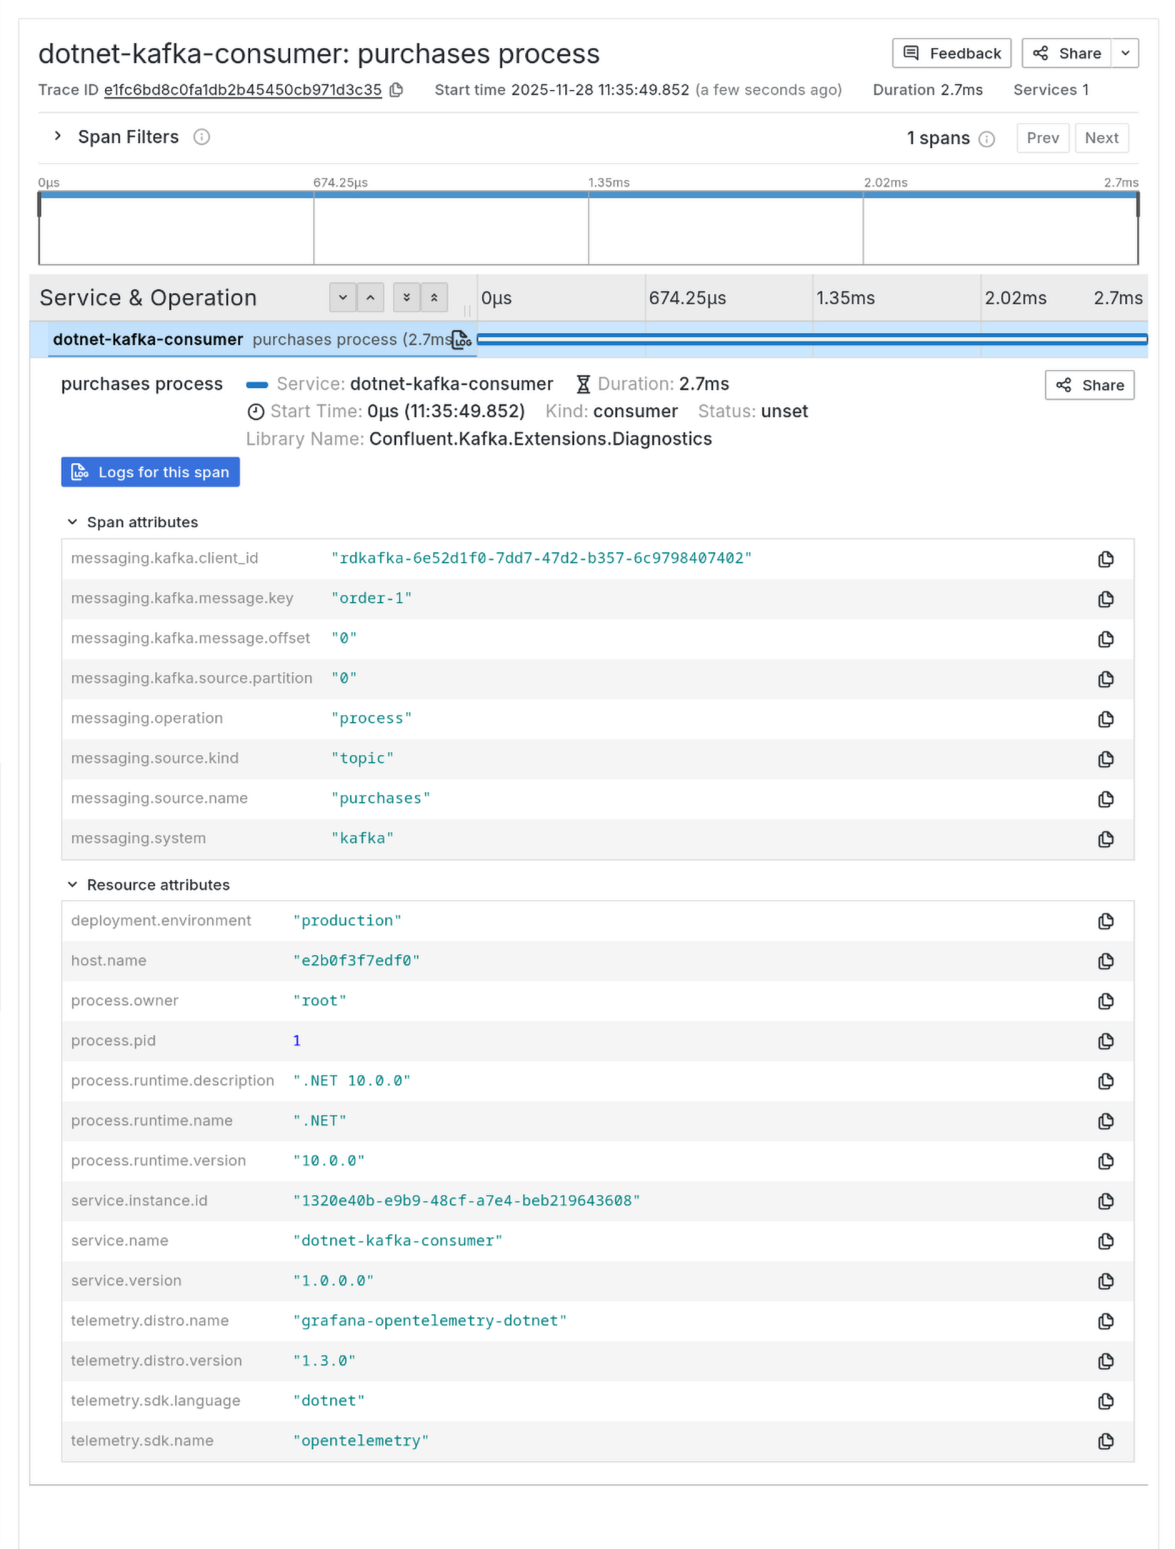
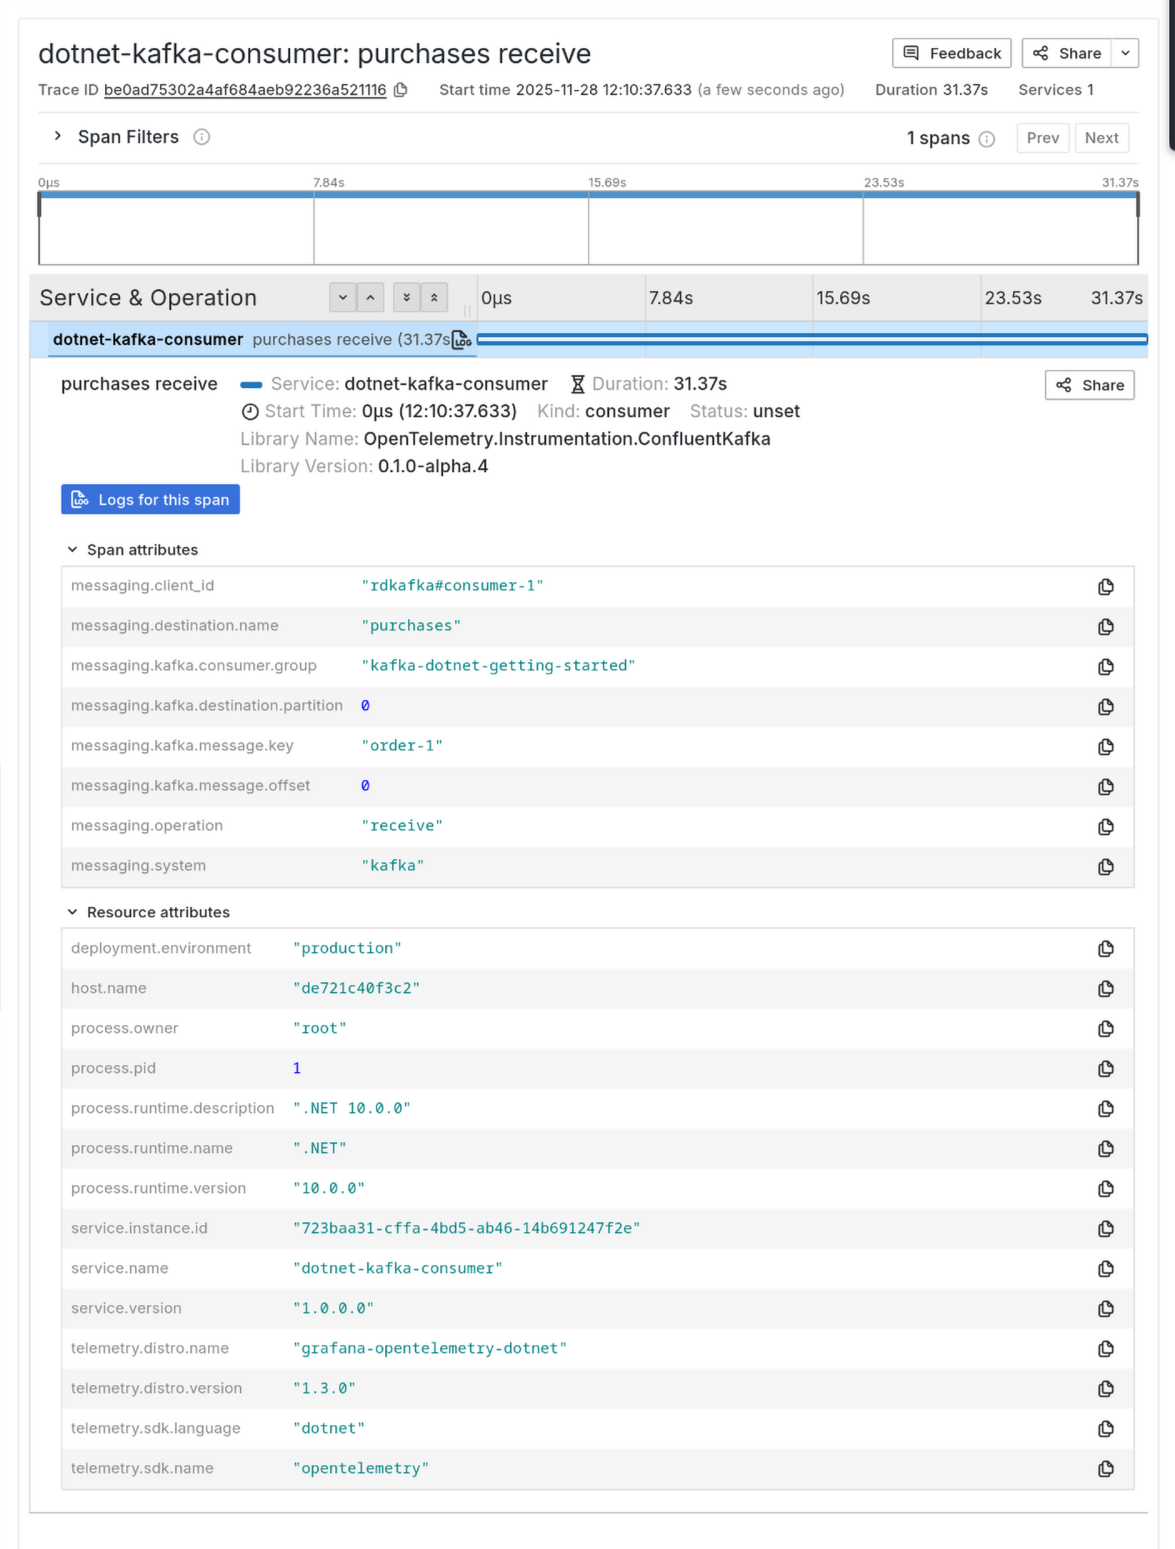
feat: replace Confluent.Kafka.Extensions.OpenTelemetry with OpenTelemetry.Instrumentation.ConfluentKafka
- Update project dependencies to use `OpenTelemetry.Instrumentation.ConfluentKafka`.
- Refactor Kafka consumer instrumentation to utilize `InstrumentedConsumerBuilder`.
- Enhance README with updated setup instructions for the new instrumentation library.

diff --git a/dotnet-kafka-otel/Program.cs b/dotnet-kafka-otel/Program.cs
@@ -5,26 +5,6 @@ using Grafana.OpenTelemetry;
 using Microsoft.Extensions.Logging;
 using OpenTelemetry.Logs;
 using Confluent.Kafka;
-using Confluent.Kafka.Extensions.Diagnostics;
-using Confluent.Kafka.Extensions.OpenTelemetry;
-
-using var tracerProvider = Sdk.CreateTracerProviderBuilder()
-    .UseGrafana()
-    .AddConfluentKafkaInstrumentation()
-    .Build();
-using var meterProvider = Sdk.CreateMeterProviderBuilder()
-    .UseGrafana()
-    .Build();
-using var loggerFactory = LoggerFactory.Create(builder =>
-{
-    builder.AddOpenTelemetry(logging =>
-    {
-        logging.UseGrafana()
-            .AddConsoleExporter();
-    });
-});
-
-var logger = loggerFactory.CreateLogger("KafkaConsumer");
 
 // Read configuration from environment variables
 var bootstrapServers = Environment.GetEnvironmentVariable("KAFKA_BOOTSTRAP_SERVERS") ?? "localhost:9092";
@@ -40,6 +20,28 @@ var config = new ConsumerConfig
     GroupId          = groupId,
     AutoOffsetReset  = AutoOffsetReset.Earliest
 };
+
+// Create an instrumented consumer - this needs to be done before bootstrapping the OTel tracer provider
+var instrumentedConsumerBuilder = new InstrumentedConsumerBuilder<string, string>(config);
+
+using var tracerProvider = Sdk.CreateTracerProviderBuilder()
+    .UseGrafana()
+    .AddKafkaConsumerInstrumentation(instrumentedConsumerBuilder)
+    .Build();
+using var meterProvider = Sdk.CreateMeterProviderBuilder()
+    .UseGrafana()
+    .Build();
+using var loggerFactory = LoggerFactory.Create(builder =>
+{
+    builder.AddOpenTelemetry(logging =>
+    {
+        logging.UseGrafana()
+            .AddConsoleExporter();
+    });
+});
+
+var logger = loggerFactory.CreateLogger("KafkaConsumer");
+
 
 // Add SASL authentication if credentials are provided
 if (!string.IsNullOrEmpty(saslUsername) && !string.IsNullOrEmpty(saslPassword))
@@ -63,7 +65,8 @@ Console.CancelKeyPress += (_, e) => {
 
 logger.LogInformation("Starting Kafka consumer for topic: {Topic}", topic);
 
-using (var consumer = new ConsumerBuilder<string, string>(config).Build())
+// Use the OTel-instrumented consumer builder that we created earlier
+using (var consumer = instrumentedConsumerBuilder.Build())
 {
     consumer.Subscribe(topic);
     logger.LogInformation("Subscribed to topic: {Topic}", topic);
@@ -72,20 +75,14 @@ using (var consumer = new ConsumerBuilder<string, string>(config).Build())
     {
         while (true) 
         {
-            // var cr = consumer.ConsumeWithInstrumentation(cts.Token);
-            consumer.ConsumeWithInstrumentation((result) =>
-            {
-                if (result == null) return;
-
-                Console.WriteLine(result.Message.Value);
-                logger.LogInformation(
-                    "Consumed event from topic {Topic}: key = {Key} value = {Value}",
-                    topic, 
-                    result.Message.Key, 
-                    result.Message.Value
-                );
-            }, 2000);
-            Console.WriteLine($"Consumed event from topic");
+            var cr = consumer.Consume(cts.Token);
+            logger.LogInformation(
+                "Consumed event from topic {Topic}: key = {Key} value = {Value}",
+                topic, 
+                cr.Message.Key, 
+                cr.Message.Value
+            );
+            Console.WriteLine($"Consumed event from topic {topic}: key = {cr.Message.Key,-10} value = {cr.Message.Value}");
         }
     }
     catch (OperationCanceledException) 

diff --git a/dotnet-kafka-otel/README.md b/dotnet-kafka-otel/README.md
@@ -71,9 +71,39 @@ Following: https://grafana.com/docs/opentelemetry/instrument/grafana-dotnet/
     telemetry.sdk.version: 1.14.0
     ```
 
-### Adding Kafka instrumentation
+### Adding community Confluent Kafka instrumentation (OpenTelemetry.Instrumentation.ConfluentKafka)
 
-To enhance the application to add Kafka instrumentation, we used the `Confluent.Kafka.Extensions.OpenTelemetry` package.
+Read: https://github.com/open-telemetry/opentelemetry-dotnet-contrib/blob/main/src/OpenTelemetry.Instrumentation.ConfluentKafka/README.md
+
+To enhance the application to add Confluent Kafka instrumentation, we use the `OpenTelemetry.Instrumentation.ConfluentKafka` package.
+
+1.  Add the package:
+
+    ```sh
+    dotnet package add OpenTelemetry.Instrumentation.ConfluentKafka --prerelease
+    ```
+
+1.  Update the bootstrapping code:
+
+    ```csharp
+    // Create an instrumented consumer - this needs to be done before bootstrapping the OTel tracer provider
+    var instrumentedConsumerBuilder = new InstrumentedConsumerBuilder<string, string>(config);
+    
+    using var tracerProvider = Sdk.CreateTracerProviderBuilder()
+        .UseGrafana()
+        .AddKafkaConsumerInstrumentation(instrumentedConsumerBuilder)
+        .Build();
+    ```
+
+1.  Use the instrumented consumer:
+
+    ```csharp
+    using (var consumer = instrumentedConsumerBuilder.Build()) { ... }
+    ```
+
+### Adding alternative Kafka instrumentation (Confluent.Kafka.Extensions.OpenTelemetry)
+
+You could alternatively use the `Confluent.Kafka.Extensions.OpenTelemetry` package.
 
 1.  Add the package:
 
